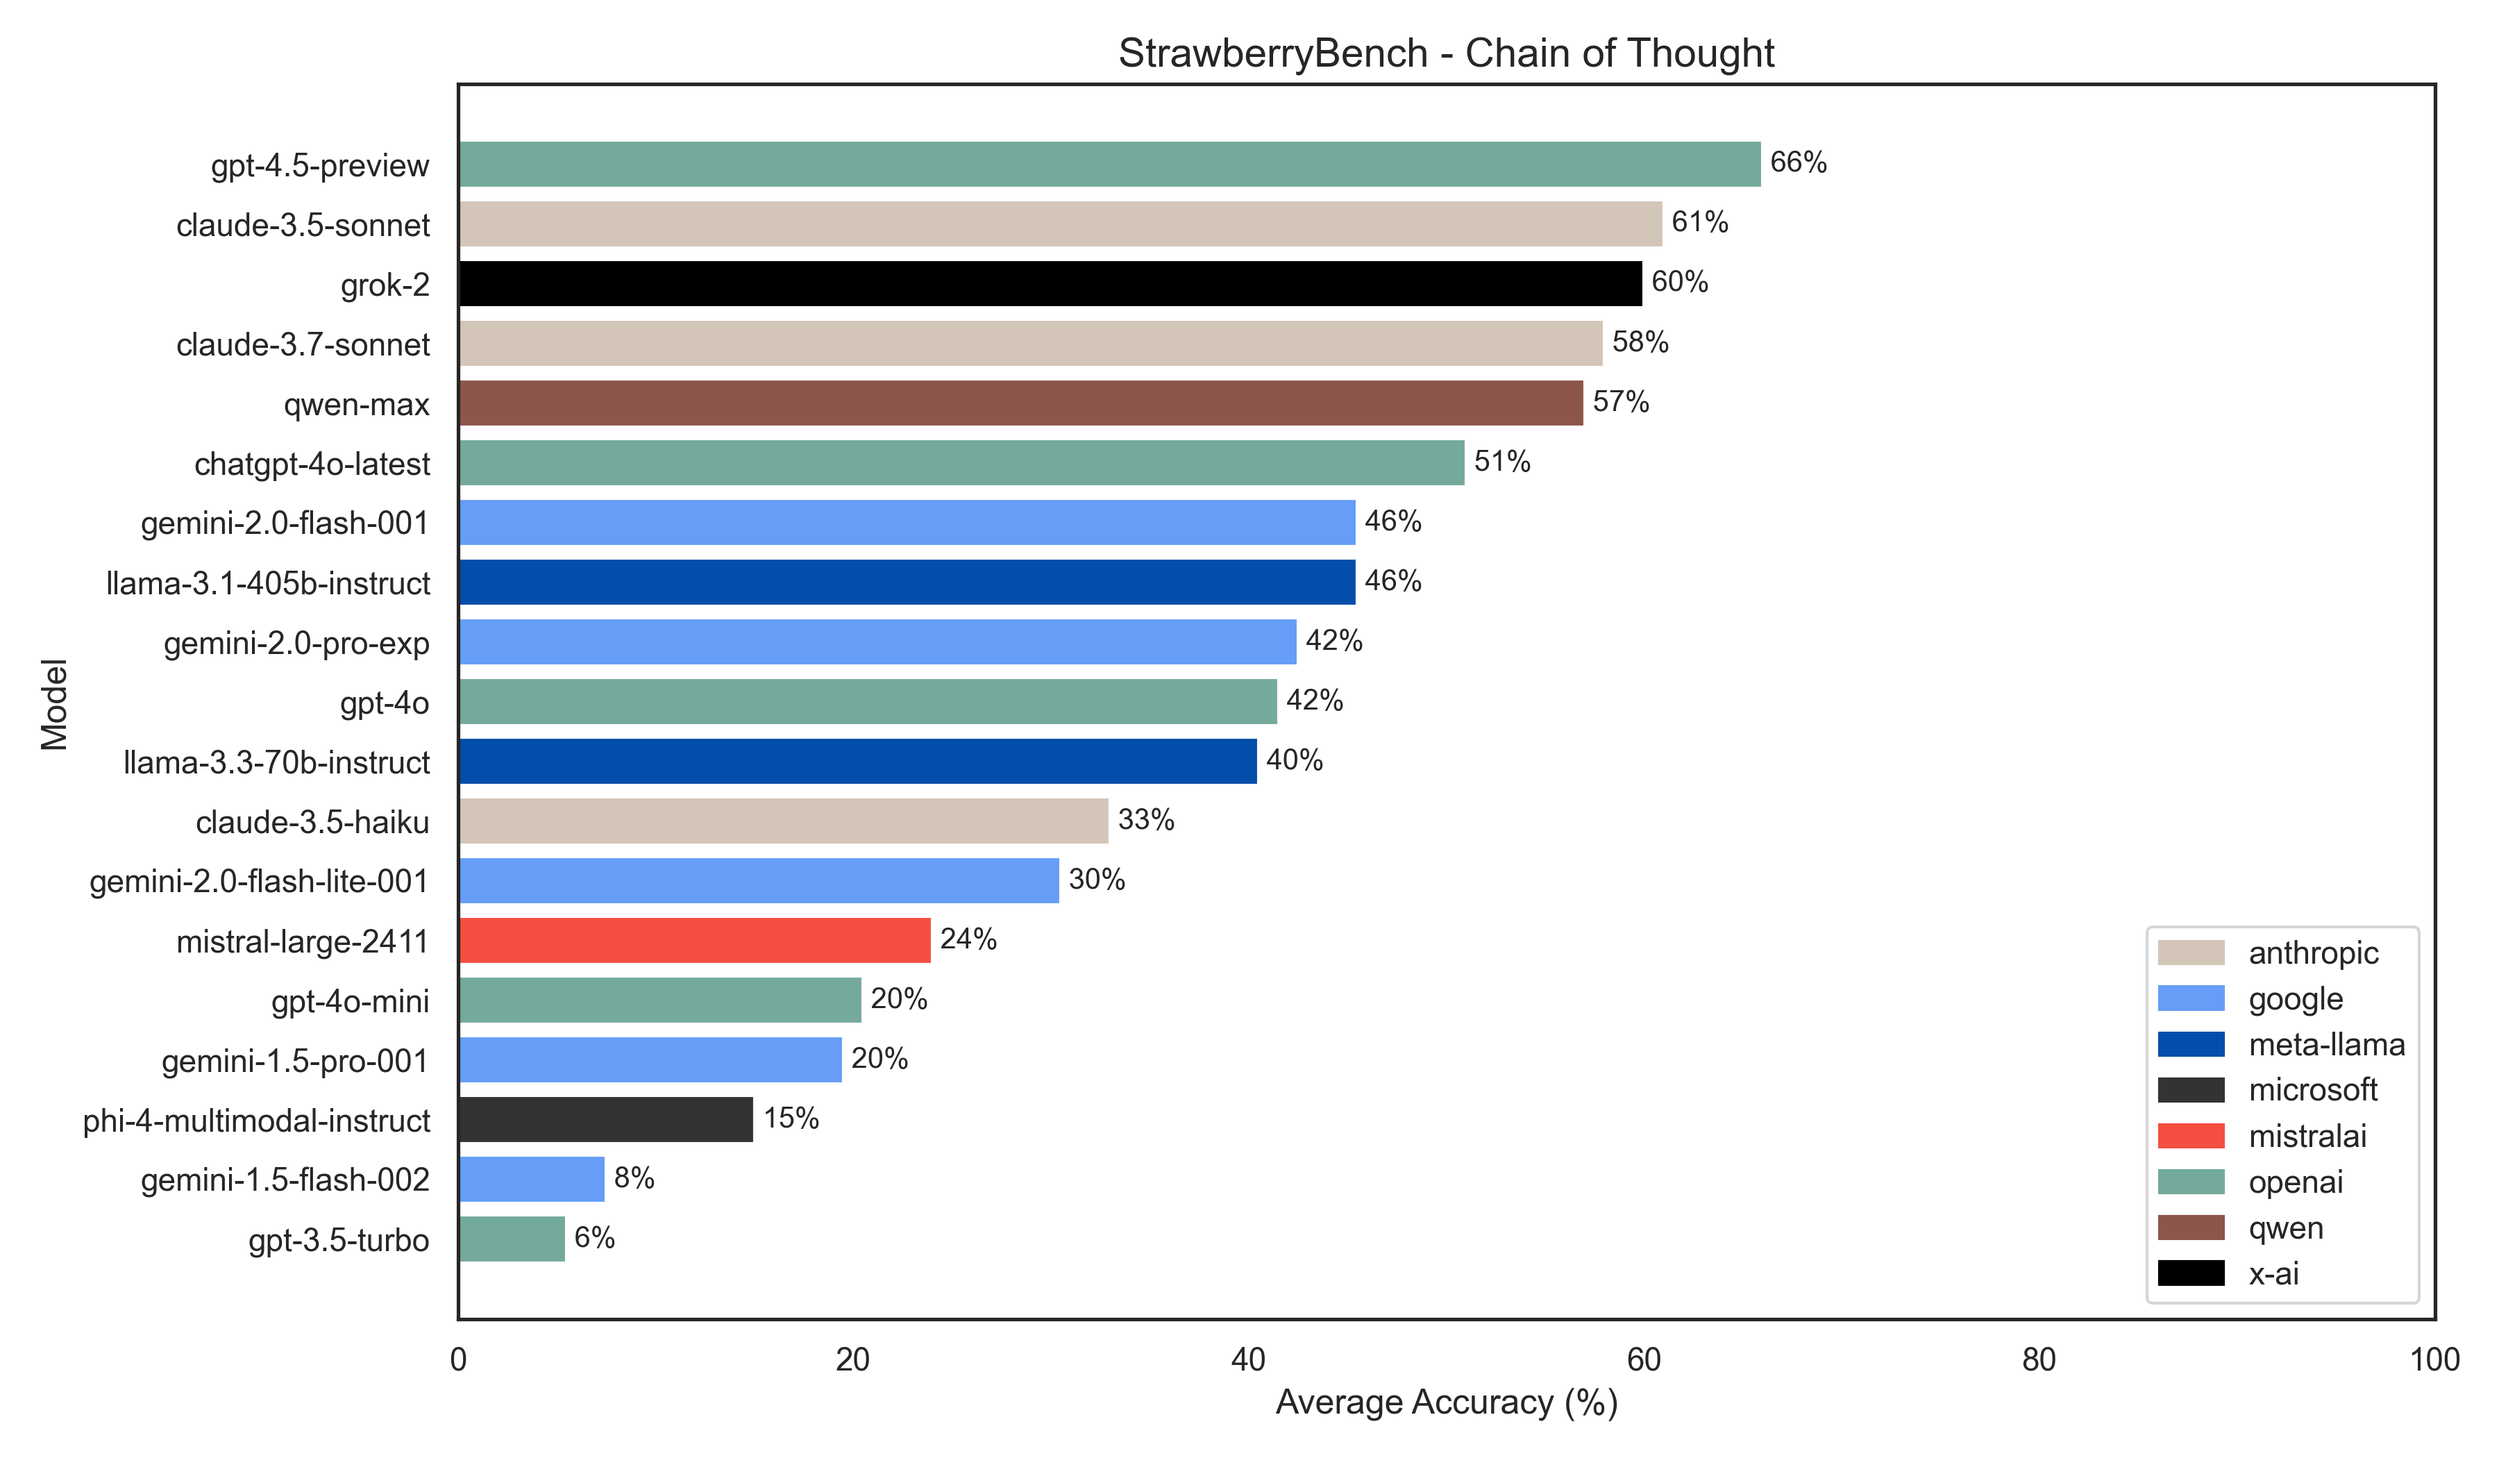
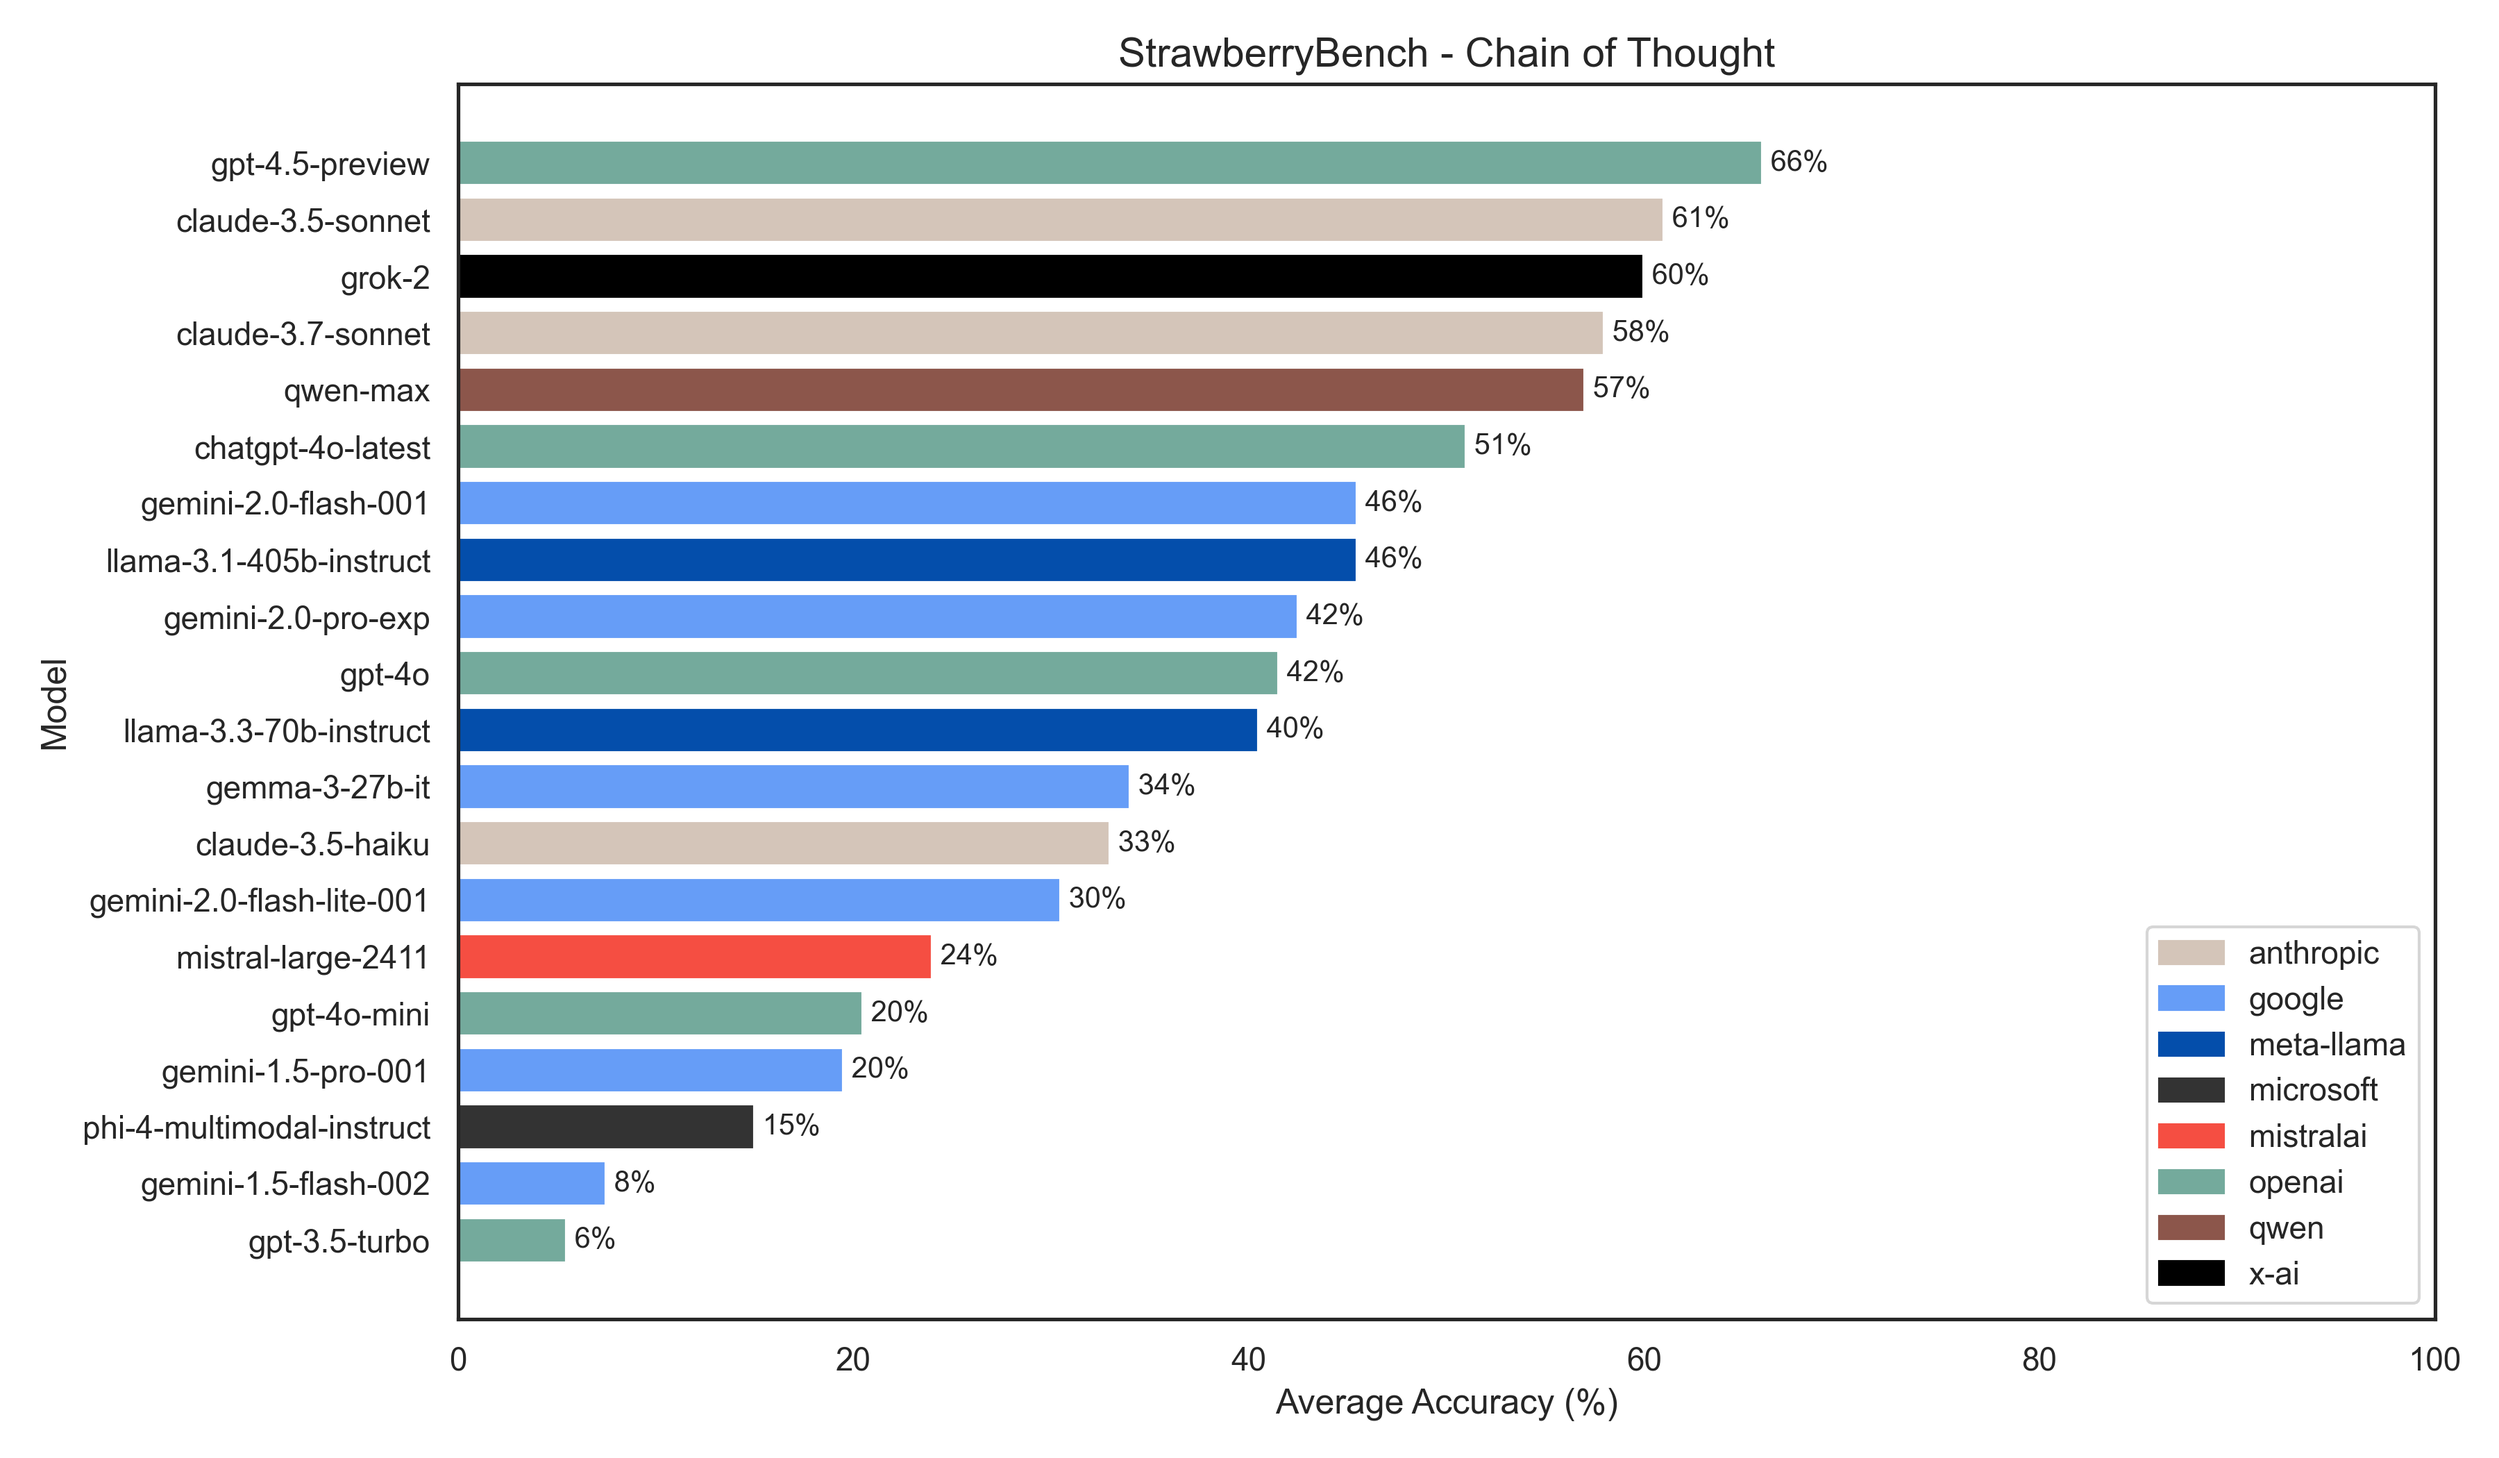
Add gemma-3-27b-it

Changed region(s): [[0.0311, 0.0929, 0.6844, 0.8667]]

diff --git a/config.py b/config.py
@@ -7,6 +7,7 @@ MODELS = [
     # { "name": "google/gemini-2.0-flash-001", "client": "google_vertex", "type": "nocot" },
     # { "name": "google/gemini-2.0-flash-lite-001", "client": "google_vertex", "type": "nocot" },
     # { "name": "google/gemini-2.0-pro-exp-02-05", "client": "google_vertex", "type": "nocot", "settings": { "rate_limit": 10 } },
+    # { "name": "google/gemma-3-27b-it", "client": "openrouter", "type": "nocot" },
     # { "name": "meta-llama/llama-3.1-405b-instruct", "client": "openrouter", "type": "nocot" },
     # { "name": "meta-llama/llama-3.3-70b-instruct", "client": "openrouter", "type": "nocot" },
     # { "name": "microsoft/phi-4-multimodal-instruct", "client": "openrouter", "type": "nocot" },
@@ -27,6 +28,7 @@ MODELS = [
     # { "name": "google/gemini-2.0-flash-001", "client": "google_vertex", "type": "cot" },
     # { "name": "google/gemini-2.0-flash-lite-001", "client": "google_vertex", "type": "cot" },
     # { "name": "google/gemini-2.0-pro-exp-02-05", "client": "google_vertex", "type": "cot", "settings": { "rate_limit": 10 } },
+    # { "name": "google/gemma-3-27b-it", "client": "openrouter", "type": "cot" },
     # { "name": "meta-llama/llama-3.1-405b-instruct", "client": "openrouter", "type": "cot" },
     # { "name": "meta-llama/llama-3.3-70b-instruct", "client": "openrouter", "type": "cot" },
     # { "name": "microsoft/phi-4-multimodal-instruct", "client": "openrouter", "type": "cot" },
